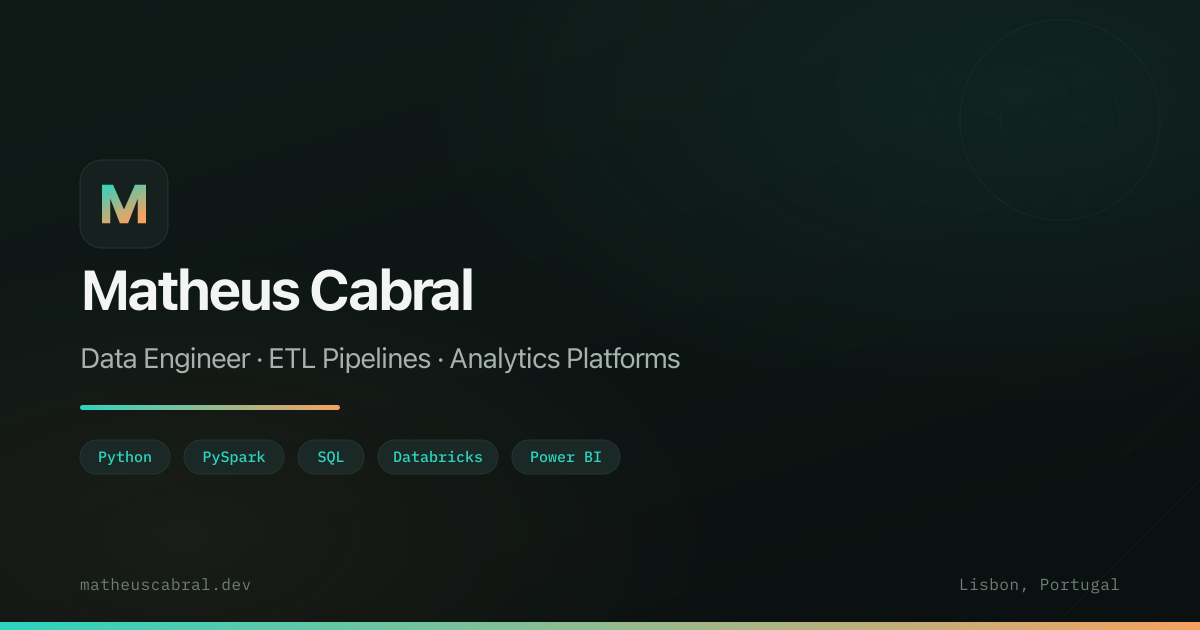
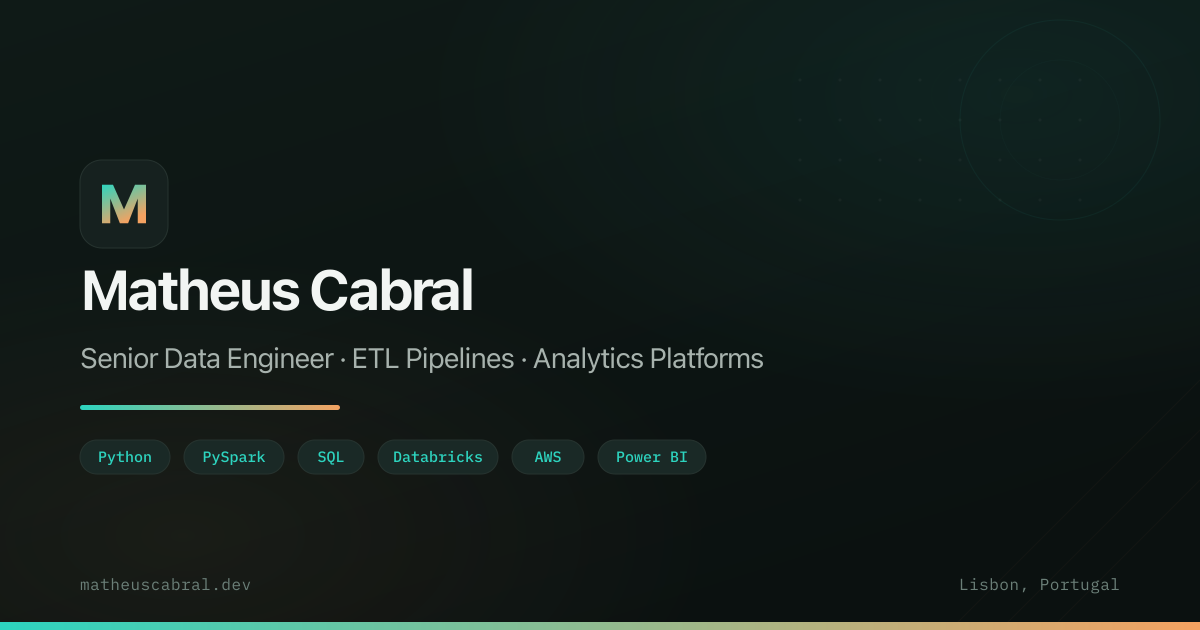
feat: Senior Data Engineer update, OG image, theme toggle, AWS skill & blog spacing
- Update all references from Data Engineer to Senior Data Engineer
- Add Ultra Tendency timeline entry (03/2026 - Present), end BNP Paribas at 03/2026
- Redesign OG social preview image with tech stack pills (Python, PySpark, SQL, Databricks, AWS, Power BI)
- Replace emoji theme toggle with SVG sun/moon icons
- Add AWS as a skill across hero badges, resume, skills list, and Protegrity timeline
- Fix blog header spacing to better match Portfolio/About pages

Changed region(s): [[0.0617, 0.5429, 0.6475, 0.6032], [0.4317, 0.6937, 0.5858, 0.754]]

diff --git a/src/data/site.ts b/src/data/site.ts
@@ -1,12 +1,12 @@
 export const site = {
   name: 'Matheus Cabral',
-  title: 'Matheus Cabral - Data Engineer',
+  title: 'Matheus Cabral - Senior Data Engineer',
   description:
-    'Data engineer building end-to-end ETL pipelines and trusted reporting on Databricks and Power BI.',
+    'Senior data engineer building scalable Databricks Lakehouse pipelines, streaming workflows, and trusted reporting.',
   url: 'https://matheuscabral.dev',
   email: 'hello@matheuscabral.dev',
   location: 'Lisbon, Portugal',
-  availability: 'Currently employed full-time at BNP Paribas',
+  availability: 'Currently employed full-time at Ultra Tendency',
 };
 
 export const navLinks = [
@@ -83,7 +83,7 @@ export const skills = [
   {
     title: 'Platforms',
     icon: 'circle-stack',
-    items: ['Databricks', 'Power BI', 'Tableau'],
+    items: ['Databricks', 'AWS', 'Power BI', 'Tableau'],
   },
   {
     title: 'Tools',
@@ -115,10 +115,18 @@ export const interests = [
 
 export const timeline = [
   {
+    role: 'Senior Data Engineer',
+    company: 'Ultra Tendency',
+    location: site.location,
+    period: '03/2026 - Present',
+    summary:
+      'Designing scalable Databricks Lakehouse pipelines with Spark and Delta Lake, powering analytics and ML use cases with a focus on data governance.',
+  },
+  {
     role: 'Data Engineer',
     company: 'BNP Paribas',
     location: site.location,
-    period: '11/2023 - Present',
+    period: '11/2023 - 03/2026',
     summary:
       'Designed and maintained ETL pipelines in Python, PySpark, and SQL, plus Power BI dashboards for finance and management.',
   },
@@ -128,7 +136,7 @@ export const timeline = [
     location: site.location,
     period: '08/2021 - 10/2023',
     summary:
-      'Built Databricks ETL workflows and cross-team dashboards for revenue, pipeline, and product usage KPIs.',
+      'Built Databricks-on-AWS ETL workflows with S3 storage, plus cross-team dashboards for revenue, pipeline, and product usage KPIs.',
   },
   {
     role: 'Data Analyst',
@@ -143,7 +151,7 @@ export const timeline = [
 export const featuredHighlights = [
   {
     label: 'Current focus',
-    title: 'ETL pipelines and KPI reporting in finance',
+    title: 'Databricks Lakehouse pipelines & data governance',
   },
   {
     label: 'Favorite stack',
@@ -151,6 +159,6 @@ export const featuredHighlights = [
   },
   {
     label: 'Current role',
-    title: 'Data Engineer at BNP Paribas',
+    title: 'Senior Data Engineer at Ultra Tendency',
   },
 ];

diff --git a/src/styles/components.css b/src/styles/components.css
@@ -190,6 +190,7 @@
 .hero-enter--badge-3 { bottom: 30%; left: -4%; }
 .hero-enter--badge-4 { bottom: 2%;  right: 5%; }
 .hero-enter--badge-5 { top: -6%;   right: 16%; }
+.hero-enter--badge-6 { bottom: -6%; left: 16%; }
 
 @media (max-width: 900px) {
   .hero__badge-row {
@@ -323,17 +324,38 @@
   background: var(--color-surface-2);
   border: 1px solid var(--color-border);
   border-radius: var(--radius-pill);
-  padding: 0.45rem 0.75rem;
+  padding: 0.45rem;
   font-weight: 600;
   display: inline-flex;
   align-items: center;
-  gap: var(--space-2);
+  justify-content: center;
   cursor: pointer;
+  color: var(--color-text);
   transition:
     transform 200ms ease,
     box-shadow 200ms ease,
     background-color 200ms ease,
     border-color 200ms ease;
+}
+
+.theme-icon {
+  display: none;
+}
+
+[data-theme="dark"] .theme-icon--sun {
+  display: block;
+}
+
+[data-theme="dark"] .theme-icon--moon {
+  display: none;
+}
+
+[data-theme="light"] .theme-icon--sun {
+  display: none;
+}
+
+[data-theme="light"] .theme-icon--moon {
+  display: block;
 }
 
 /* ── Chips ── */

diff --git a/src/scripts/theme.ts b/src/scripts/theme.ts
@@ -1,6 +1,5 @@
 document.addEventListener('astro:page-load', () => {
   const themeToggle = document.querySelector('[data-theme-toggle]');
-  const themeIcon = document.querySelector('[data-theme-icon]');
   const storageKey = 'theme';
 
   const setTheme = (value: string) => {
@@ -10,9 +9,6 @@ document.addEventListener('astro:page-load', () => {
       localStorage.setItem(storageKey, value);
     } catch (_) {
       /* storage unavailable */
-    }
-    if (themeIcon) {
-      themeIcon.textContent = value === 'dark' ? '\u{1F319}' : '\u{2600}\u{FE0F}';
     }
     if (themeToggle) {
       themeToggle.setAttribute(
@@ -24,9 +20,6 @@ document.addEventListener('astro:page-load', () => {
 
   if (themeToggle) {
     const currentTheme = document.documentElement.dataset.theme || 'dark';
-    if (themeIcon) {
-      themeIcon.textContent = currentTheme === 'dark' ? '\u{1F319}' : '\u{2600}\u{FE0F}';
-    }
     themeToggle.setAttribute(
       'aria-label',
       currentTheme === 'dark' ? 'Switch theme to light mode' : 'Switch theme to dark mode',

diff --git a/src/styles/pages.css b/src/styles/pages.css
@@ -1,18 +1,21 @@
 /* ── Blog index ── */
 
 .blog-index__header {
-  display: flex;
-  align-items: flex-start;
-  justify-content: space-between;
-  gap: var(--space-4);
+  position: relative;
+}
+
+.blog-index__header .section__header {
+  gap: var(--space-2);
+  margin-bottom: var(--space-4);
 }
 
 .rss-link {
+  position: absolute;
+  top: 0;
+  right: 0;
   display: inline-flex;
   align-items: center;
   gap: var(--space-2);
-  flex-shrink: 0;
-  margin-top: var(--space-5);
   padding: var(--space-2) var(--space-3);
   font-size: var(--text-sm);
   font-family: var(--font-mono);
@@ -29,13 +32,13 @@
 }
 
 @media (max-width: 640px) {
-  .blog-index__header {
-    flex-direction: column;
-    gap: 0;
+  .rss-link {
+    position: static;
+    margin-top: var(--space-2);
   }
 
-  .rss-link {
-    margin-top: var(--space-3);
+  .blog-index__header .section__header {
+    margin-bottom: var(--space-3);
   }
 }
 

diff --git a/src/styles/utilities.css b/src/styles/utilities.css
@@ -145,6 +145,10 @@
   animation: hero-badge-in 500ms ease both 1200ms, float-y 7.5s ease-in-out infinite 1700ms;
 }
 
+.hero-enter--badge-6 {
+  animation: hero-badge-in 500ms ease both 1300ms, float-x 5s ease-in-out infinite 1800ms;
+}
+
 @media (prefers-reduced-motion: reduce) {
   html {
     scroll-behavior: auto;
